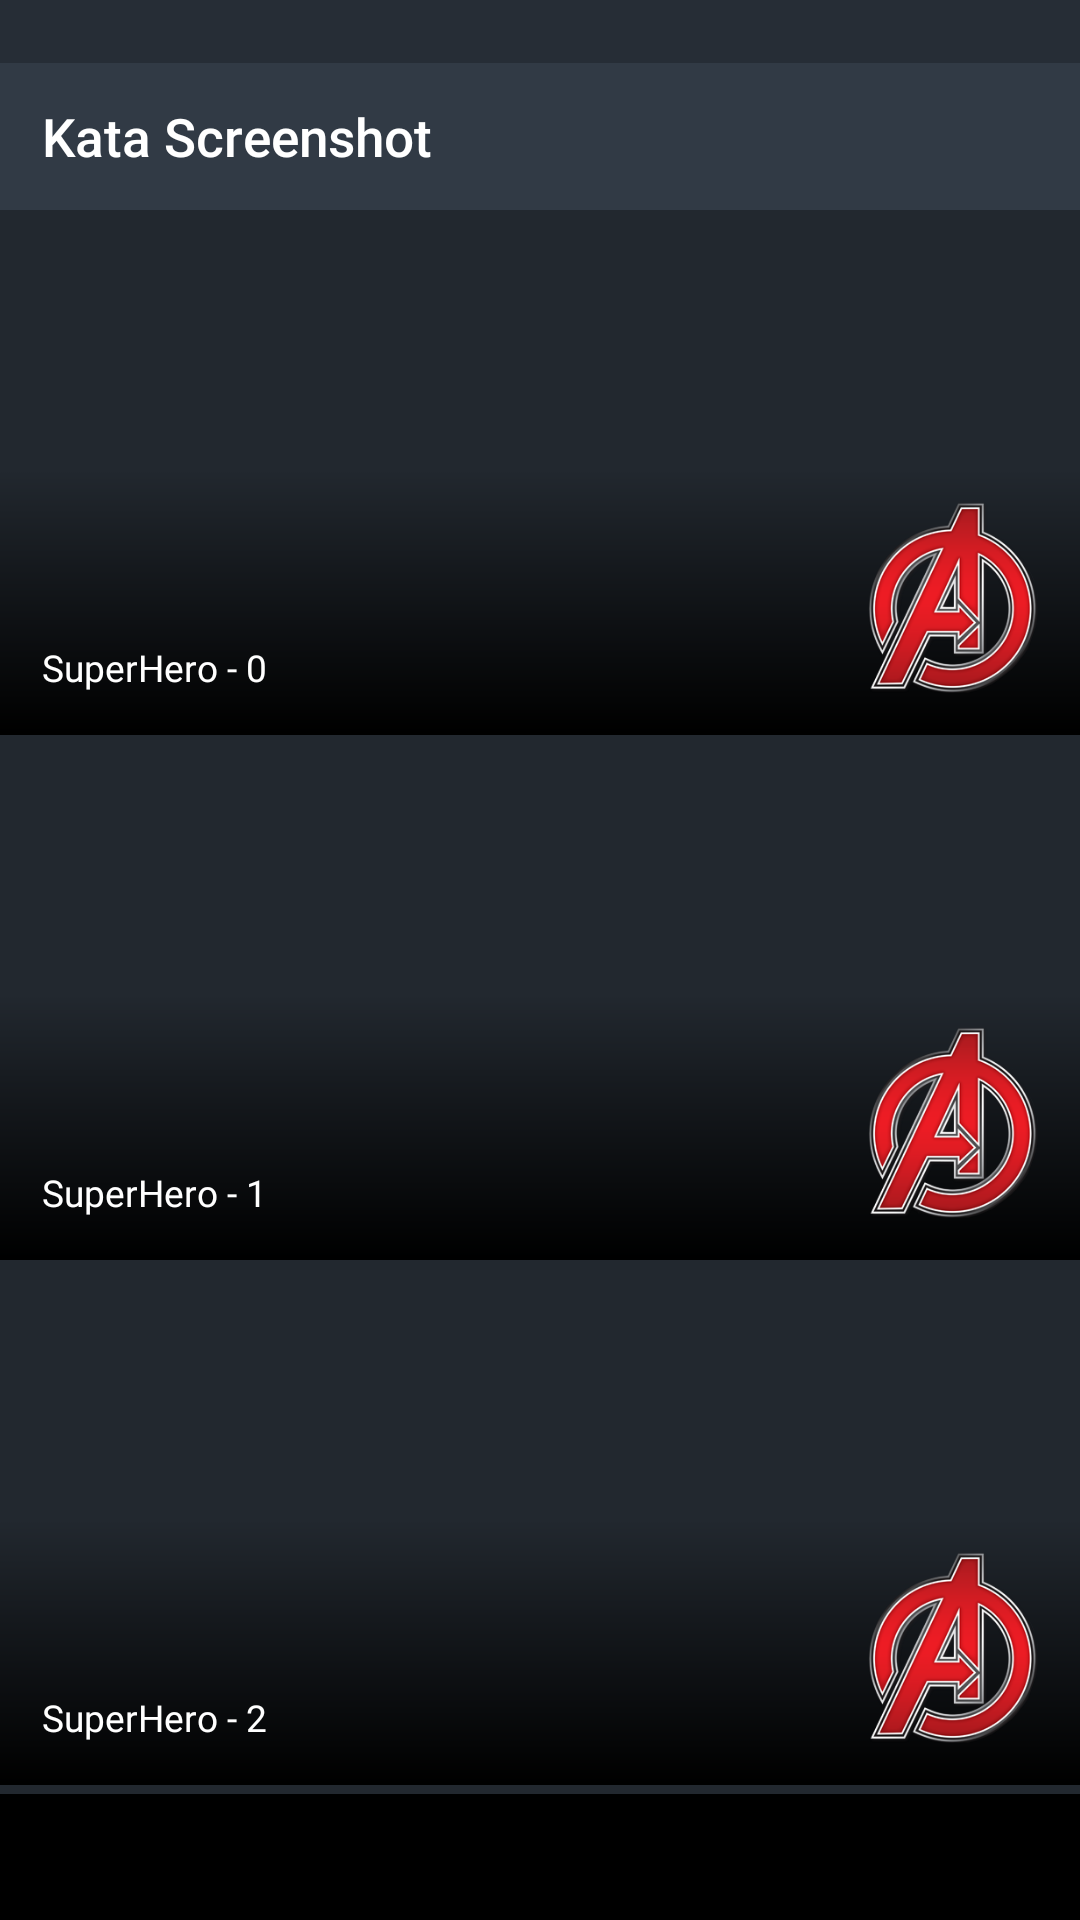
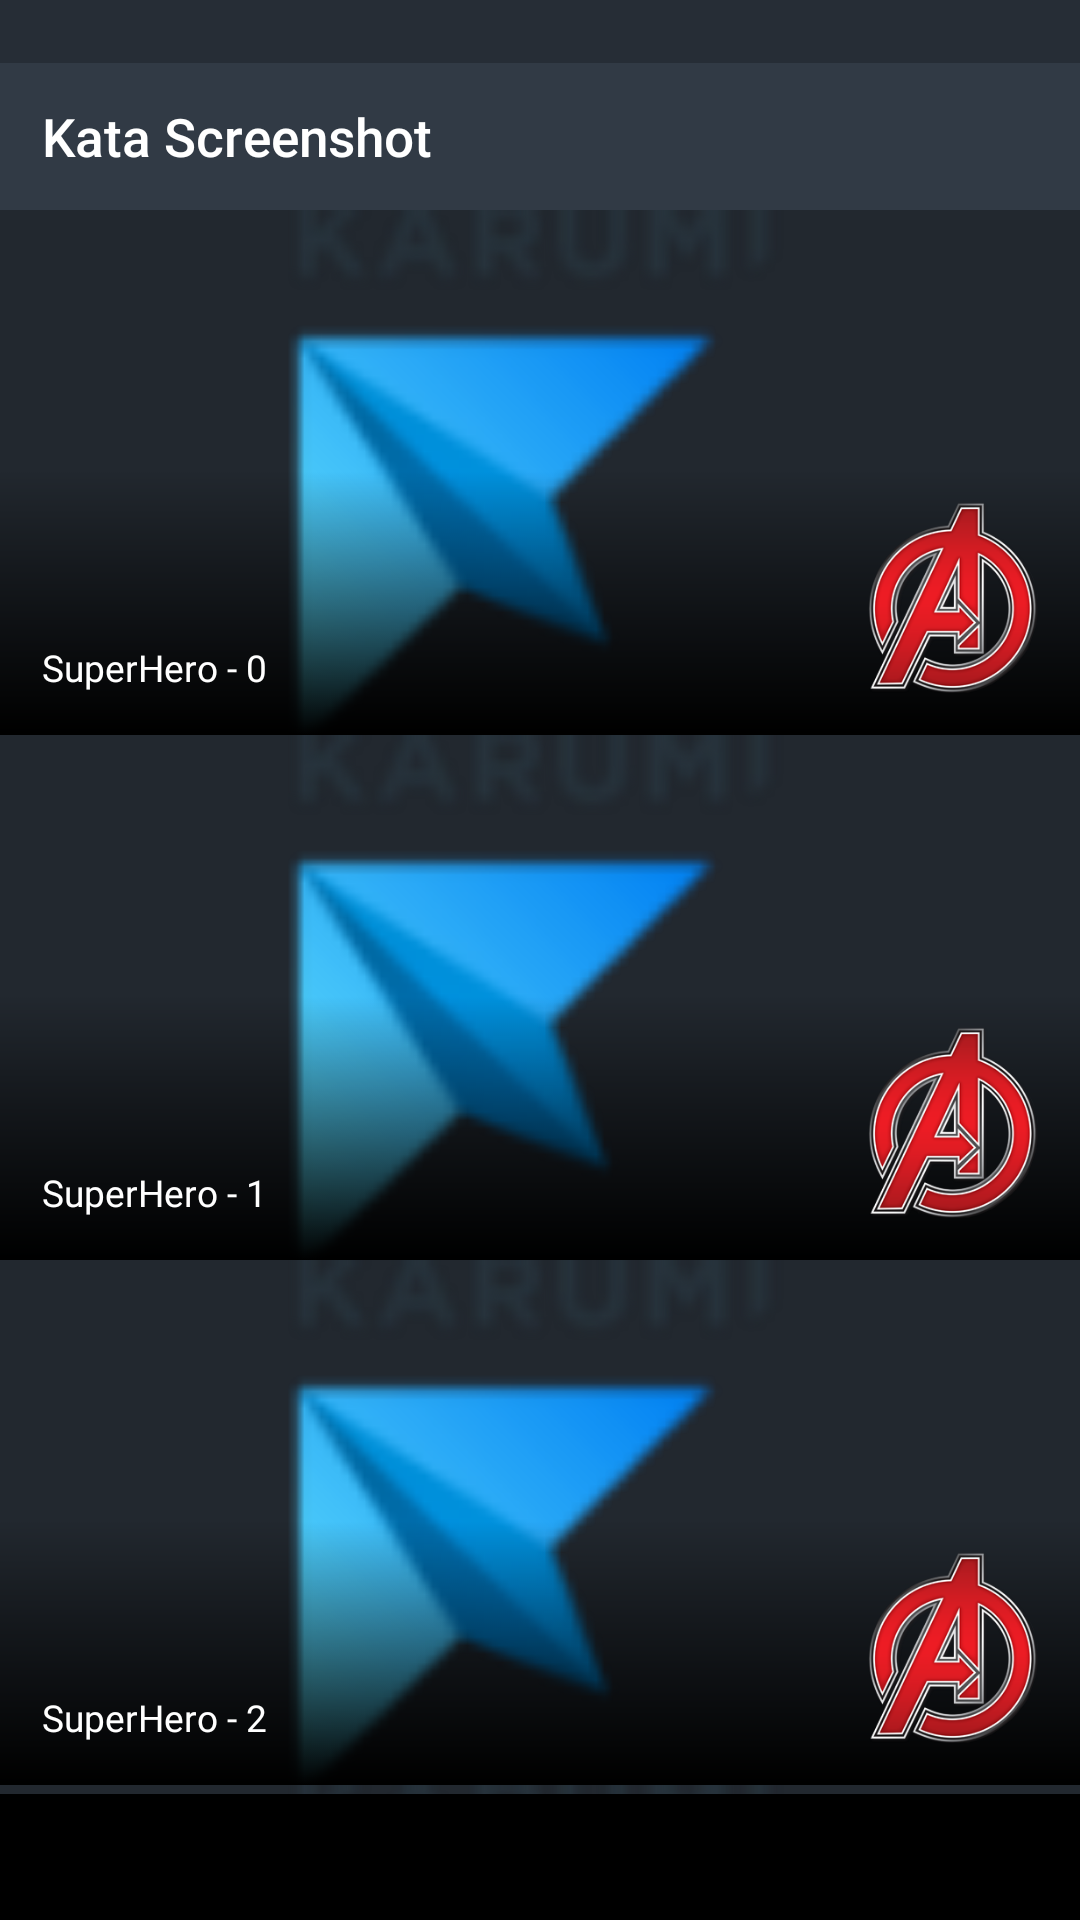
Test for image

Changed region(s): [[0.2444, 0.1562, 0.6722, 0.375], [0.2444, 0.4375, 0.6722, 0.6562], [0.2444, 0.7188, 0.6722, 0.9375]]

diff --git a/app/src/androidTest/java/com/karumi/screenshot/MainActivityTest.java b/app/src/androidTest/java/com/karumi/screenshot/MainActivityTest.java
@@ -19,6 +19,7 @@ package com.karumi.screenshot;
 import static org.mockito.Mockito.when;
 
 import android.app.Activity;
+import android.support.annotation.NonNull;
 import android.support.test.InstrumentationRegistry;
 import android.support.test.espresso.intent.rule.IntentsTestRule;
 
@@ -27,7 +28,10 @@ import com.karumi.screenshot.di.MainModule;
 import com.karumi.screenshot.model.SuperHero;
 import com.karumi.screenshot.model.SuperHeroesRepository;
 import com.karumi.screenshot.ui.view.MainActivity;
+import com.karumi.screenshot.ui.view.SuperHeroViewHolder;
 
+import org.junit.After;
+import org.junit.Before;
 import org.junit.Rule;
 import org.junit.Test;
 import org.mockito.Mock;
@@ -56,6 +60,11 @@ public class MainActivityTest extends ScreenshotTest {
       new IntentsTestRule<>(MainActivity.class, true, false);
 
   @Mock SuperHeroesRepository repository;
+
+  @Before
+  public void setUp() throws Exception {
+    SuperHeroViewHolder.isRunningUITest = true;
+  }
 
   @Test public void showsEmptyCaseIfThereAreNoSuperHeroes() {
     givenThereAreNoSuperHeroes();
@@ -140,8 +149,7 @@ public class MainActivityTest extends ScreenshotTest {
   private List<SuperHero> givenSuperHeroesWithName(String name, boolean avengers) {
     List<SuperHero> superHeroes = new LinkedList<>();
 
-    String superHeroDescription = "Description Super Hero - ";
-    SuperHero superHero = new SuperHero(name, null, avengers, superHeroDescription);
+    SuperHero superHero = creteSuperHero(name, avengers, "Description Super Hero");
     superHeroes.add(superHero);
 
     when(repository.getAll()).thenReturn(superHeroes);
@@ -149,12 +157,17 @@ public class MainActivityTest extends ScreenshotTest {
     return superHeroes;
   }
 
+  @NonNull
+  private SuperHero creteSuperHero(String name, boolean avengers, String description) {
+    String superHeroDescription = description;
+    return new SuperHero(name, "https://i.annihil.us/u/prod/marvel/i/mg/9/00/537bcb1133fd7.jpg", avengers, superHeroDescription);
+  }
+
   private List<SuperHero> givenThereAreSomeSuperHeroes(int numberOfSuperHeroes, boolean avengers) {
     List<SuperHero> superHeroes = new LinkedList<>();
     for (int i = 0; i < numberOfSuperHeroes; i++) {
       String superHeroName = "SuperHero - " + i;
-      String superHeroDescription = "Description Super Hero - " + i;
-      SuperHero superHero = new SuperHero(superHeroName, null, avengers, superHeroDescription);
+      SuperHero superHero = creteSuperHero(superHeroName, avengers, "Description Super Hero - " + i);
       superHeroes.add(superHero);
       when(repository.getByName(superHeroName)).thenReturn(superHero);
     }
@@ -168,5 +181,10 @@ public class MainActivityTest extends ScreenshotTest {
 
   private MainActivity startActivity() {
     return activityRule.launchActivity(null);
+  }
+
+  @After
+  public void tearDown() throws Exception {
+    SuperHeroViewHolder.isRunningUITest = false;
   }
 }

diff --git a/app/src/main/java/com/karumi/screenshot/ui/view/SuperHeroViewHolder.java b/app/src/main/java/com/karumi/screenshot/ui/view/SuperHeroViewHolder.java
@@ -20,12 +20,14 @@ import android.support.v7.widget.RecyclerView;
 import android.view.View;
 import android.widget.ImageView;
 import android.widget.TextView;
-import butterknife.Bind;
-import butterknife.ButterKnife;
+
 import com.karumi.screenshot.R;
 import com.karumi.screenshot.model.SuperHero;
 import com.karumi.screenshot.ui.presenter.SuperHeroesPresenter;
 import com.squareup.picasso.Picasso;
+
+import butterknife.Bind;
+import butterknife.ButterKnife;
 
 public class SuperHeroViewHolder extends RecyclerView.ViewHolder {
 
@@ -33,6 +35,8 @@ public class SuperHeroViewHolder extends RecyclerView.ViewHolder {
   @Bind(R.id.iv_super_hero_photo) ImageView photoImageView;
   @Bind(R.id.tv_super_hero_name) TextView nameTextView;
   @Bind(R.id.iv_avengers_badge) View avengersBadgeView;
+
+  public static boolean isRunningUITest = false;
 
   public SuperHeroViewHolder(View itemView, SuperHeroesPresenter presenter) {
     super(itemView);
@@ -59,7 +63,11 @@ public class SuperHeroViewHolder extends RecyclerView.ViewHolder {
     if (photo == null) {
       return;
     }
-    Picasso.with(getContext()).load(photo).fit().centerCrop().into(photoImageView);
+    if (isRunningUITest) {
+      Picasso.with(getContext()).load(R.mipmap.ic_launcher).fit().centerCrop().into(photoImageView);
+    } else {
+      Picasso.with(getContext()).load(photo).fit().centerCrop().into(photoImageView);
+    }
   }
 
   private void renderSuperHeroName(String name) {
